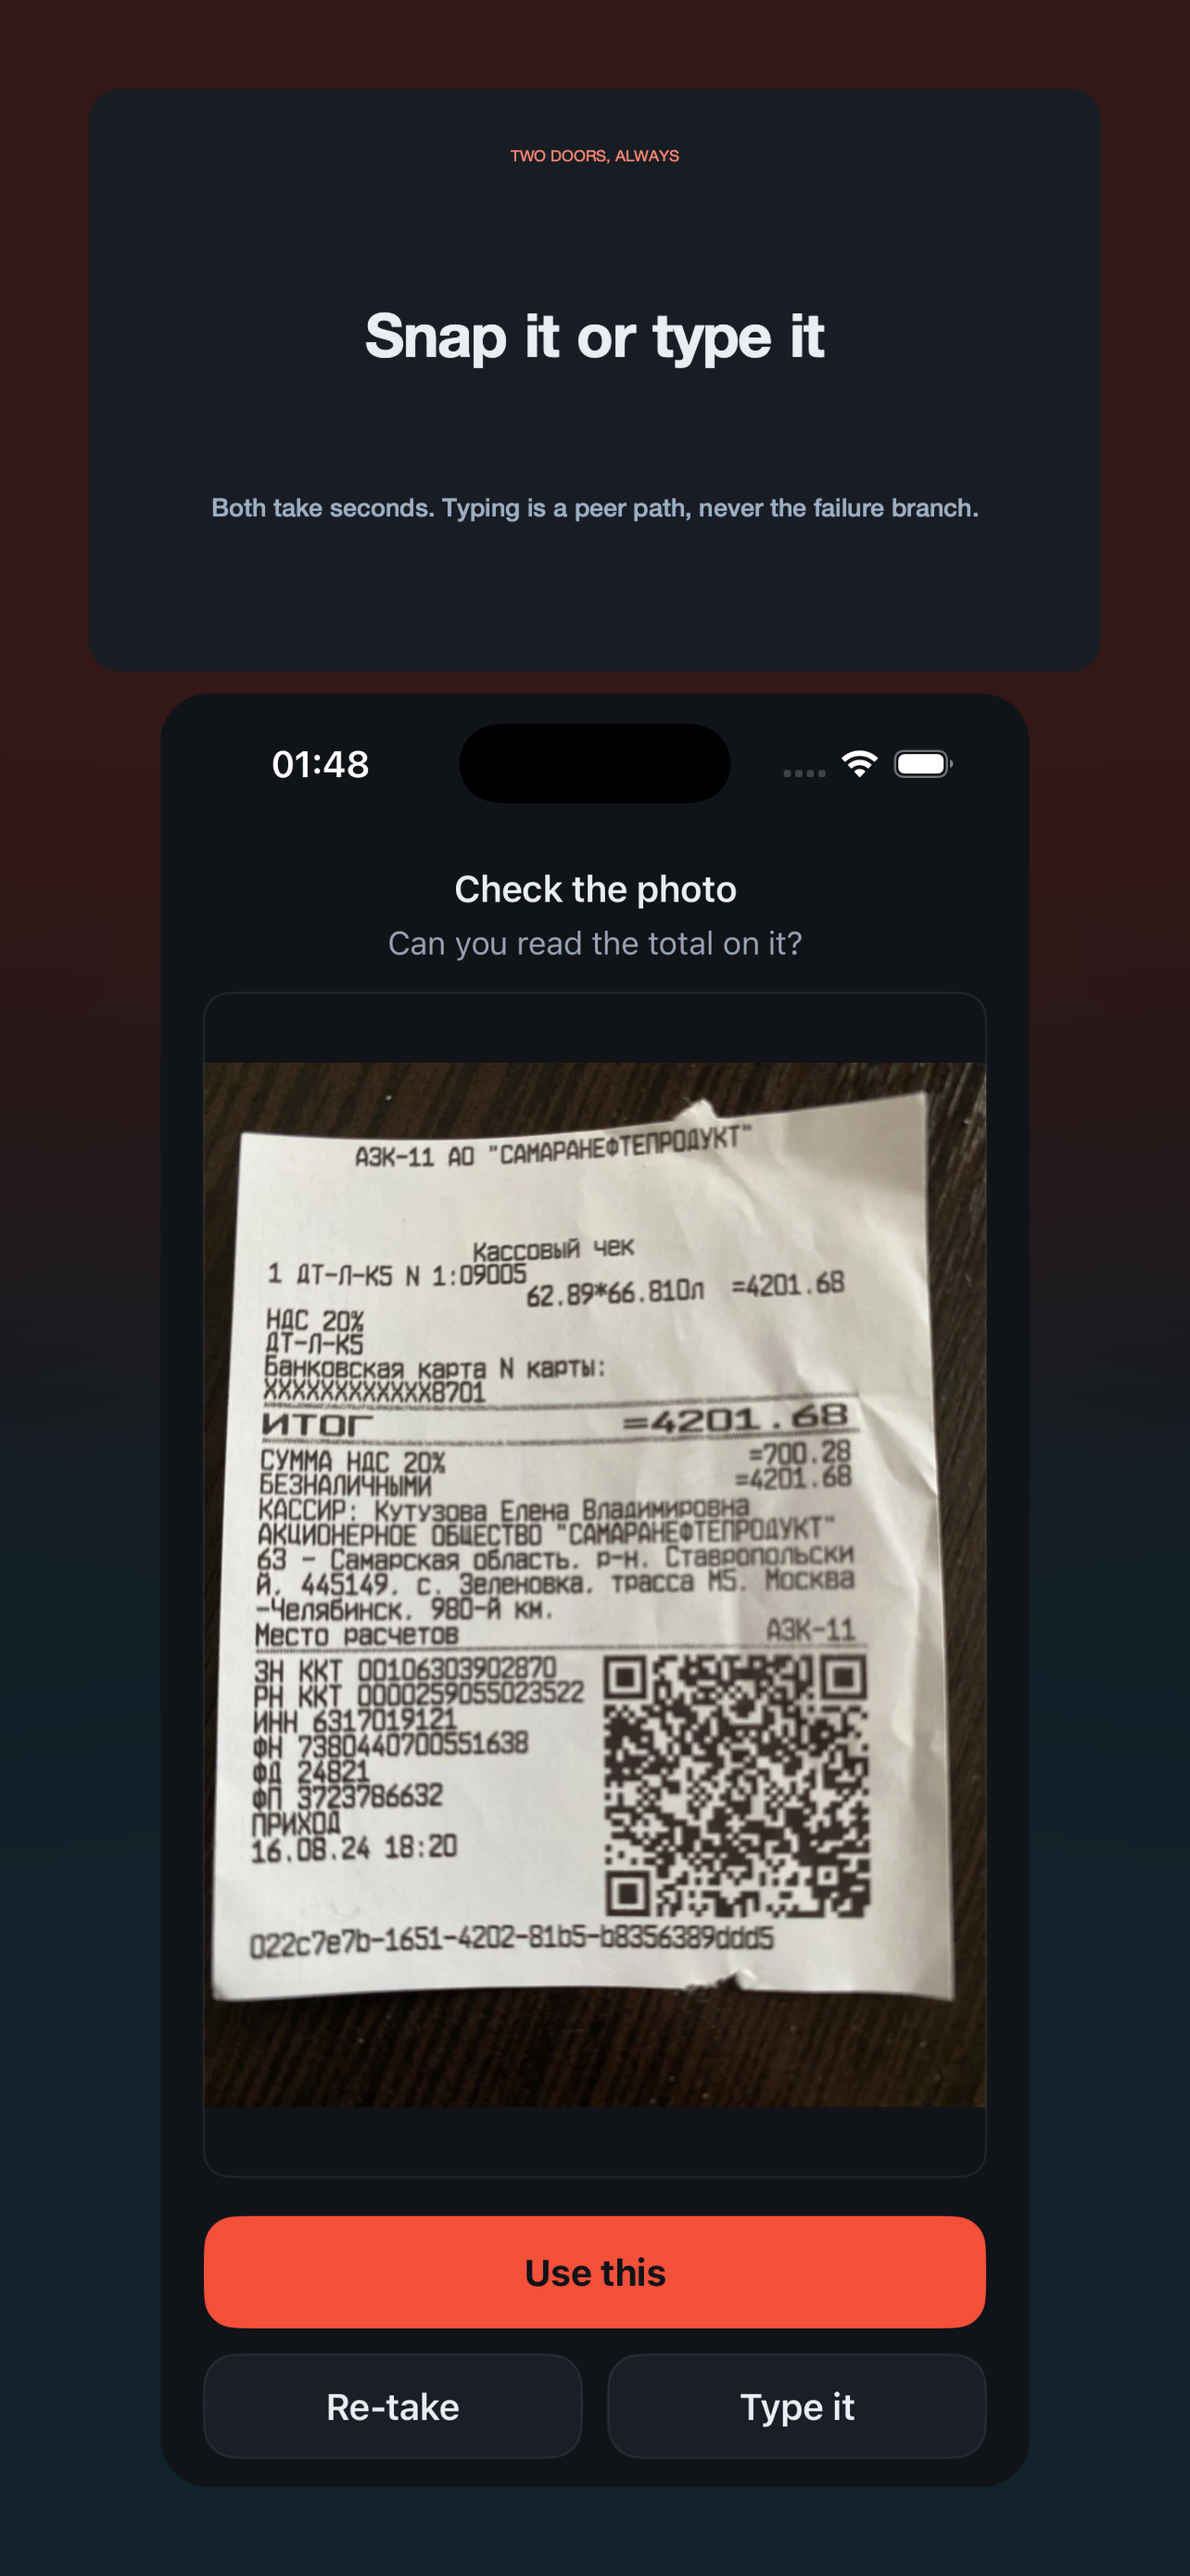
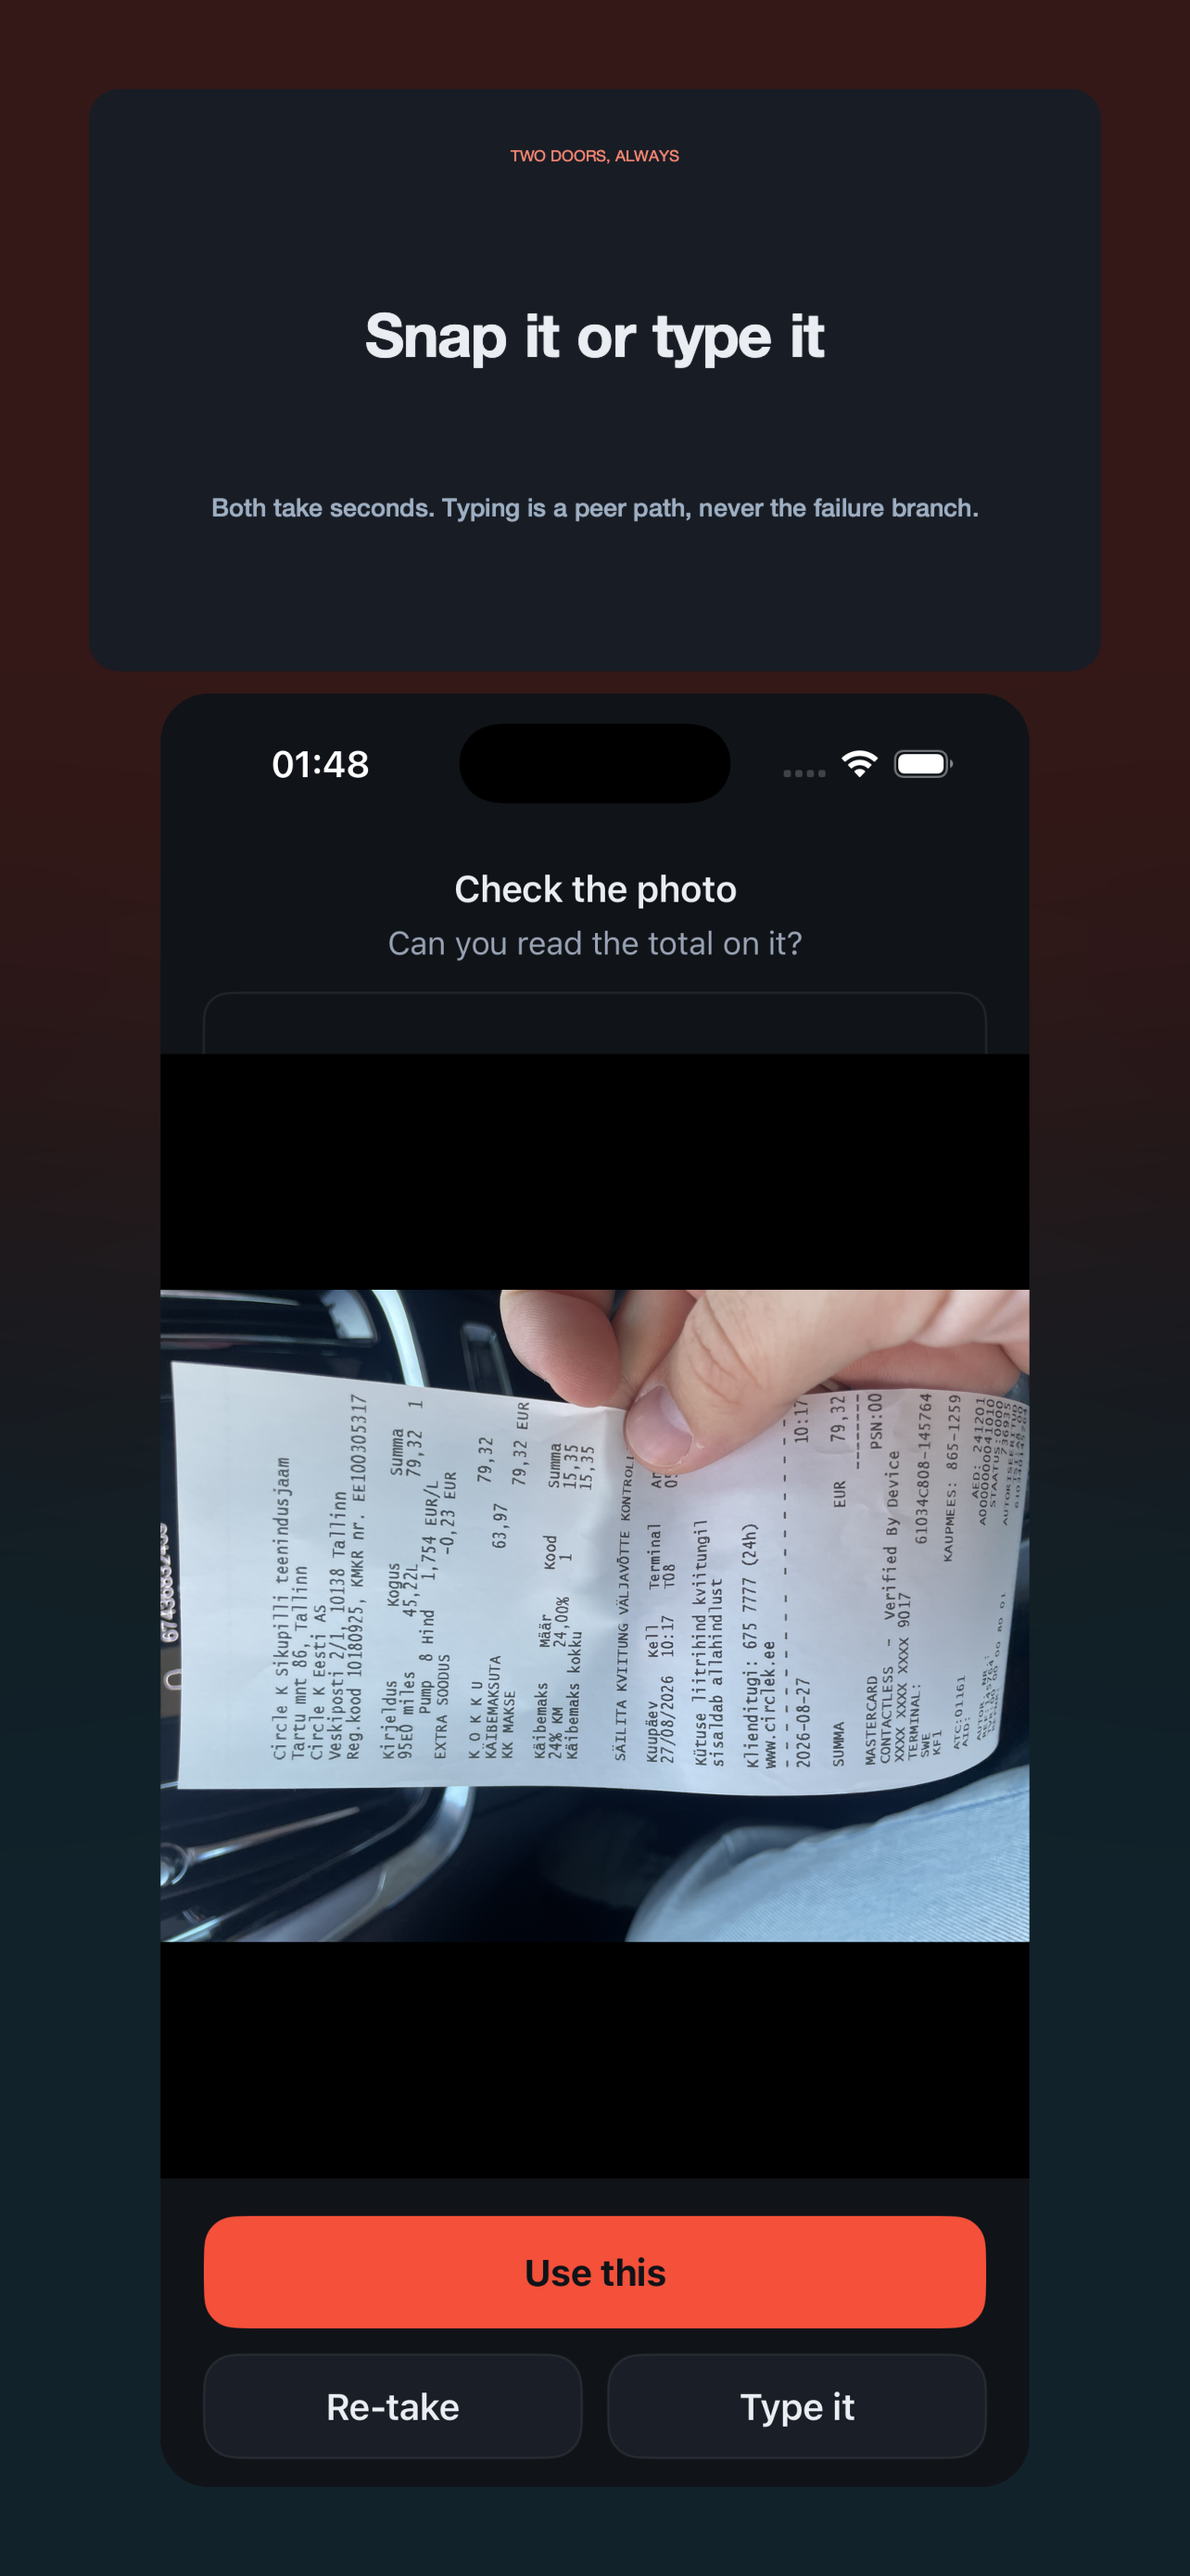
The English panels show a euro receipt, not a Russian one
RV.5-capture-review is captured with a Russian fiscal receipt, which is right
for the app's own record and wrong on an English store panel: it tells an
English reader the app is meant for someone else. Panel 03-en now draws fixture
receipt-038 (Circle K Sikupilli, EUR) into the review screen's photo area.

The substitution helper is generalised - it takes the stem, the region and the
receipt - so the two English panels that show a photo share one path, and the
reason for choosing per language is written where the constants are. Russian
panels keep the app's own screenshots, whose fixture receipt is already
Russian.

Changed region(s): [[0.1246, 0.4024, 0.8723, 0.8359]]

diff --git a/design/store/build.py b/design/store/build.py
@@ -64,28 +64,31 @@ def rounded(stem, src=None):
     return dst
 
 
-RECEIPT = "Spike/ReceiptSpike/fixtures/receipts/receipt-046-circlek-sikupilli-pump5-db0-5580l-ee.jpg"
+# EUR receipts, for the ENGLISH panels. An English panel showing a Russian fiscal
+# receipt tells an English reader the app is meant for someone else; the Russian
+# panels use the app's own screenshots, whose fixture receipt is already Russian.
+RECEIPT_EE_PORTRAIT = "Spike/ReceiptSpike/fixtures/receipts/receipt-046-circlek-sikupilli-pump5-db0-5580l-ee.jpg"
+RECEIPT_EE_INCAR = "Spike/ReceiptSpike/fixtures/receipts/receipt-038-circlek-sikupilli-95e0-pump8-ee.jpg"
 
 
-def viewer_with_real_photo(stem="RV.9-attachment-viewer"):
-    """The attachment viewer showing a REAL corpus receipt, not the test mock.
+def real_photo_into(stem, top, bottom, receipt):
+    """A committed screenshot with a real corpus receipt in its photo area.
 
-    The committed screenshot is captured from a seeded build, so its viewer holds
-    a grey placeholder - honest as a UI record, useless as a store panel about
-    keeping the photo. This drops a real fixture receipt into the same image
-    region the viewer draws into, so the chrome, the title and the hint are still
-    the shipping screen's own pixels.
+    Screenshots come from a seeded build, so the receipt on screen is a grey
+    placeholder or a fixture picked for the parser - honest as a UI record,
+    wrong for a store panel. Only the drawn image is substituted: the chrome,
+    the title and the buttons stay the shipping screen's own pixels, and the
+    committed screenshot is never modified.
     """
     from PIL import Image
     os.makedirs(CACHE, exist_ok=True)
     src = os.path.join(HERE, "..", "screenshots", stem + ".png")
-    photo = os.path.join(HERE, "..", "..", RECEIPT)
-    dst = os.path.join(CACHE, stem + "-real.png")
+    photo = os.path.join(HERE, "..", "..", receipt)
+    dst = os.path.join(CACHE, stem + "-" + os.path.basename(receipt)[:-4] + ".png")
     if os.path.exists(dst) and os.path.getmtime(dst) >= max(os.path.getmtime(src),
                                                             os.path.getmtime(photo)):
         return dst
     im = Image.open(src).convert("RGB")
-    top, bottom = 620, 2380          # the viewer's content area, between the nav bar and the hint
     box_w, box_h = im.width, bottom - top
     im.paste((0, 0, 0), [0, top, box_w, bottom])
     ph = Image.open(photo).convert("RGB")
@@ -293,8 +296,10 @@ def source_for(shot):
     """The image a panel actually draws - a real receipt where the shot is a mock."""
     if shot == "RV.48-attachment-recognised-ru":
         return collapse_interior_gap(shot)
-    if shot == "RV.9-attachment-viewer":
-        return viewer_with_real_photo(shot)
+    if shot == "RV.9-attachment-viewer":       # the viewer's content area
+        return real_photo_into(shot, 620, 2380, RECEIPT_EE_PORTRAIT)
+    if shot == "RV.5-capture-review":          # between the question and the buttons
+        return real_photo_into(shot, 500, 2060, RECEIPT_EE_INCAR)
     return None
 
 
